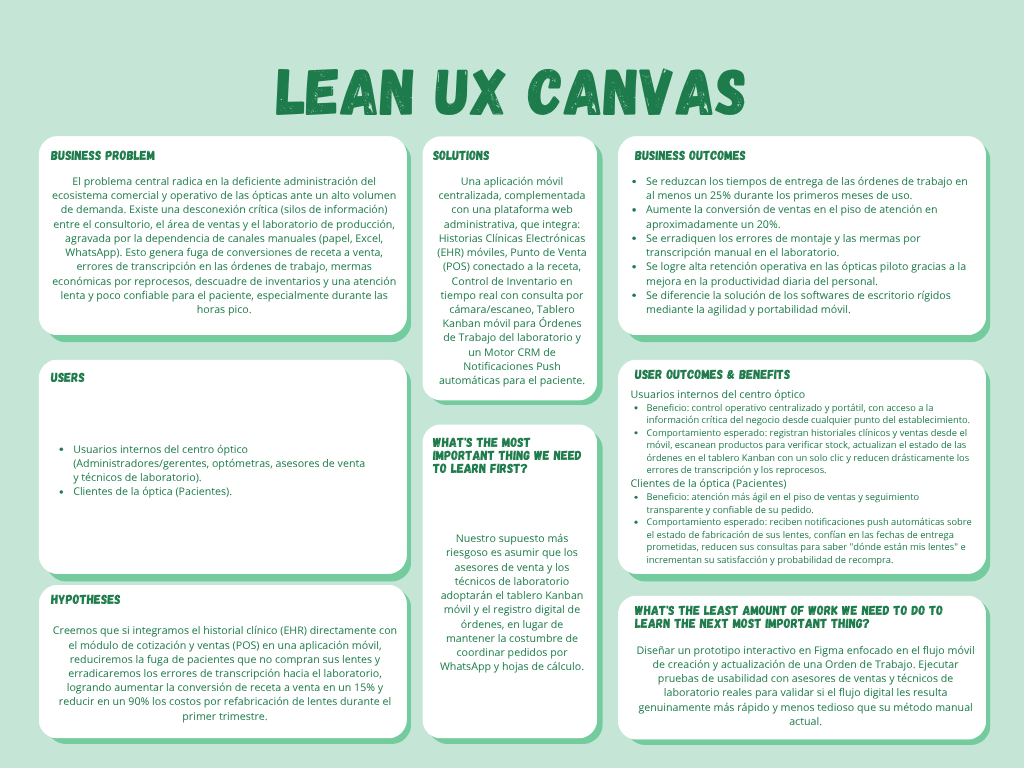
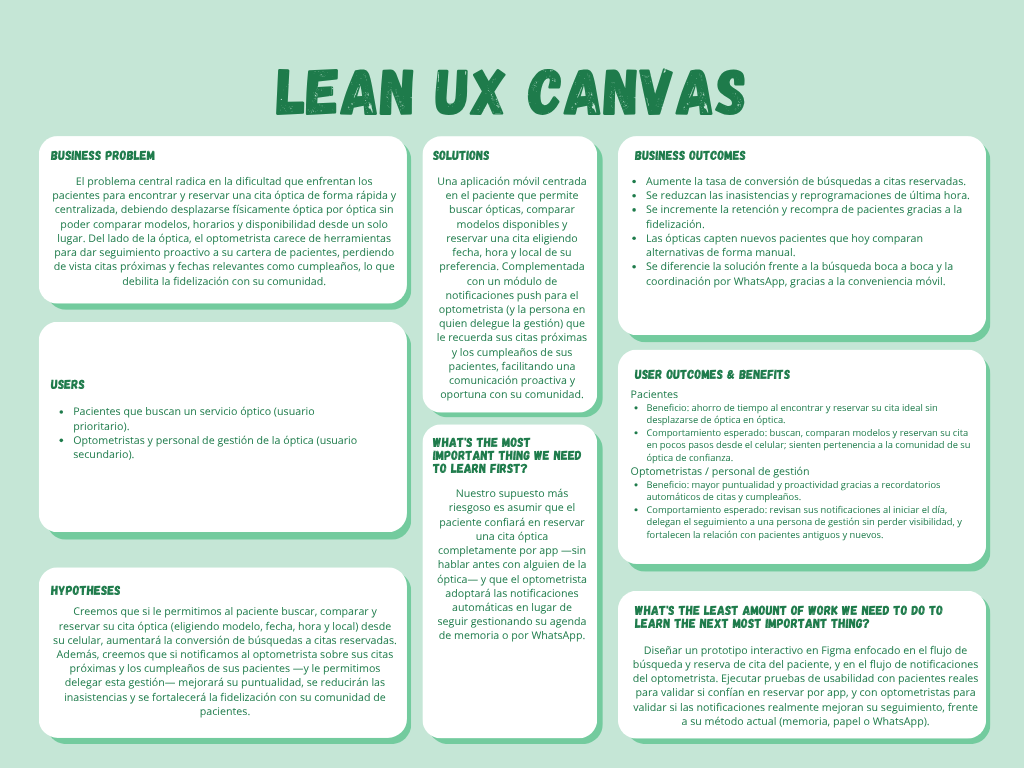
docs: Lean UX Canvas updated

diff --git a/Capitulo1.md b/Capitulo1.md
@@ -68,123 +68,115 @@ OptiFlow fue diseñado para permitir que el paciente pueda buscar, comparar y re
 
 **¿Quién es el usuario?**
 > Nuestro usuario principal y prioritario es el paciente que busca un servicio óptico. De forma secundaria, atendemos a la óptica: el optometrista y, en caso de delegación, la persona encargada de la gestión.
-> - El administrador utilizará la aplicación móvil para auditar embudos de ventas, inventario y flujo de caja desde cualquier ubicación.
-> - El staff la usará desde sus smartphones o tablets para registrar historias clínicas, cotizar escaneando productos, cobrar adelantos y enviar/monitorear órdenes de trabajo al laboratorio.
-> - El paciente interactúa indirectamente al recibir notificaciones push automatizadas del estado de su pedido en su celular.
+> - El paciente utilizará la aplicación móvil para buscar ópticas, comparar modelos y reservar su cita en el lugar, fecha y hora que prefiera.
+> - El optometrista recibirá notificaciones sobre sus citas próximas y sobre fechas relevantes de sus pacientes, como cumpleaños.
 
 **¿Dónde encaja nuestro producto en su trabajo o vida?**
-> Será el core operativo y la espina dorsal del negocio. Estará abierto constantemente en smartphones o tablets desde la apertura hasta el cierre, reemplazando:
-> - Historias y recetas en papel.
-> - Hojas de Excel aisladas en computadoras de escritorio.
-> - Chats de WhatsApp para la comunicación informal con los laboratorios.
+> Para el paciente, será el primer punto de contacto al momento de necesitar un servicio óptico, reemplazando la búsqueda física de óptica en óptica o las llamadas telefónicas dispersas. Para el optometrista, será una extensión de su agenda diaria en el celular, presente desde que se despierta (recordatorio de la primera cita del día) hasta el cierre de operaciones, reemplazando:
+> - La búsqueda manual y presencial de disponibilidad en ópticas.
+> - Las agendas en papel o los recordatorios informales de citas y cumpleaños.
+> - La coordinación telefónica entre el optometrista y la persona de gestión.
 
 **¿Qué problemas tiene nuestro producto que resolver?**
-> La latencia y fragmentación de datos ante el alto volumen de atención. Específicamente:
-> 
-> - La fuga de conversiones (recetas emitidas que no terminan en ventas por falta de agilidad en el piso de ventas).
-> - Los errores de montaje y mermas económicas por la transcripción manual de órdenes al laboratorio.
-> - El descuadre de inventario de monturas entre piso de ventas y almacén.
-> - La insatisfacción del cliente por retrasos y falta de comunicación proactiva sobre sus lentes.
+> La fricción del paciente al buscar y reservar una cita óptica, y la falta de proactividad del optometrista en el seguimiento de su cartera de pacientes. Específicamente:
+> - La pérdida de tiempo del paciente al desplazarse óptica por óptica para conocer disponibilidad y modelos.
+> - La dificultad del paciente para elegir, en un solo lugar, el modelo, la fecha, la hora y el local de su preferencia.
+> - El olvido de citas próximas y de fechas relevantes (cumpleaños) por parte del optometrista.
+> - La falta de un canal claro para delegar el seguimiento de pacientes a otra persona sin perder visibilidad.
 
 **¿Cuándo y cómo es usado nuestro producto?**
-> De forma concurrente durante toda la jornada comercial, intensificando su uso durante las horas pico.
-> - Los vendedores operarán el módulo de venta ágil desde su celular acompañando al cliente por todo el salón.
-> - Los doctores utilizarán el módulo EHR portátil en una tablet dentro de la cabina.
-> - Los técnicos de laboratorio usarán el tablero Kanban táctil para actualizar estados rápidamente.
-> - Los administradores lo usarán para cortes de caja diarios y análisis de KPIs en tiempo real desde sus teléfonos.
+> El paciente lo usará de forma puntual, cada vez que necesite agendar o renovar un servicio óptico, desde cualquier lugar y en el momento que le resulte conveniente. El optometrista (o la persona de gestión) lo usará de forma continua durante la jornada, principalmente:
+> - Al inicio del día, para revisar las citas y recordatorios pendientes.
+> - Durante la jornada, al recibir notificaciones en tiempo real sobre citas próximas o cumpleaños de pacientes.
+> - Al delegar tareas de seguimiento, manteniendo visibilidad compartida con la persona encargada de la gestión.
 
 **¿Qué características son importantes?**
-> - Historias clínicas electrónicas (EHR) vinculadas directamente al módulo de ventas móvil para auto-completar cotizaciones.
-> - Control de inventario sincronizado en tiempo real mediante el uso de la cámara del celular como escáner.
-> - Tablero Kanban optimizado para pantallas táctiles, permitiendo la trazabilidad visual de las Órdenes de Trabajo (Work Orders).
-> - Motor CRM para notificaciones push automatizadas al dispositivo del paciente.
+> - Buscador de ópticas con catálogo de modelos disponibles.
+> - Reserva de citas eligiendo modelo, fecha, hora y local, desde el celular.
+> - Notificaciones push al optometrista sobre citas próximas y cumpleaños de pacientes.
+> - Delegación de la gestión de notificaciones a una persona designada, sin perder visibilidad.
 
 **¿Cómo debe verse nuestro producto y cómo debe comportarse?**
-> Debe ser comercial, impecable y con un diseño de interfaz nativo (Mobile UI) que reduzca la carga cognitiva en horas de alta demanda.
-> 
-> - El flujo de cotización debe ser rápido y operable a una sola mano para evitar filas.
-> - El tablero del laboratorio debe ser visualmente jerarquizado (semaforización de estados).
-> - Debe permitir actualizaciones de estado con un solo tap (toque).
+> Debe ser simple, cercano y confiable, priorizando la facilidad de uso del paciente y la inmediatez de las notificaciones para el optometrista.
+> - El flujo de búsqueda y reserva de cita debe completarse en pocos pasos, sin fricciones, y ser operable a una sola mano.
+> - Las notificaciones deben ser claras, oportunas y accionables (por ejemplo, permitir confirmar, reprogramar o delegar una cita con un solo tap).
 
 ---
 
 **Business Assumptions**
 
-> Creo que mis clientes necesitan un ecosistema móvil que:
-> - Soporte el escalamiento de sus atenciones sin depender de módulos fijos de PC.
-> - Elimine el desorden administrativo por sobrecarga de datos.
-> - Erradique las mermas por errores de pedidos manuales.
-> - Permita control financiero total desde la palma de la mano.
+> Creo que mis clientes necesitan una herramienta móvil que:
+> - Les permita captar pacientes que hoy buscan alternativas óptica por óptica.
+> - Fortalezca la fidelidad de su comunidad de pacientes mediante comunicación oportuna.
+> - Reduzca las inasistencias y el desorden en el seguimiento de citas y fechas relevantes.
+> - Permita delegar la gestión de la comunicación sin perder control ni visibilidad.
 
 > Estas necesidades se pueden resolver con:
-> 
-> La implementación de nuestra aplicación móvil ERP/CRM que automatiza el viaje de la información, conectando sin fricción la receta del doctor en cabina, la venta en movimiento en el mostrador y la fabricación en el laboratorio.
+> La implementación de nuestra aplicación móvil, que conecta al paciente con la óptica desde el momento de la búsqueda y reserva de la cita, y sostiene esa relación en el tiempo mediante notificaciones automáticas de citas y fechas relevantes al optometrista o a quien delegue esta tarea.
 
 **Clientes iniciales:**
-> Cadenas de ópticas medianas y grandes en Lima Metropolitana que:
-> - Procesan altos volúmenes de órdenes diarias.
-> - Sufren de cuellos de botella por dependencia al papel, métodos empíricos o sistemas de escritorio obsoletos.
+> Ópticas independientes y cadenas medianas en Lima Metropolitana que:
+> - Buscan atraer nuevos pacientes que hoy comparan alternativas de forma manual.
+> - Desean fidelizar a su cartera de pacientes existente mediante una comunicación más cercana y oportuna.
 
 **Propuesta de valor**
-> **Para el gerente:**
-> - Aumentar la rentabilidad neta.
-> - Mejorar la conversión de ventas mediante atención portátil.
-> - Reducir a cero errores de transcripción.
-> - Mantener control exacto de cuentas por cobrar en tiempo real.
-> 
 > **Para el paciente:**
-> - Recibir sus lentes con medida exacta.
-> - Cumplimiento de fechas prometidas.
-> - Información constante del proceso en su propio teléfono.
+> - Encontrar y reservar su cita óptica ideal sin desplazarse físicamente de óptica en óptica.
+> - Elegir el modelo, la fecha, la hora y el local de su preferencia, todo desde el celular.
+> - Sentirse parte de una comunidad fiel a su óptica de confianza.
+> 
+> **Para el optometrista / la óptica:**
+> - Ser más puntual y proactivo gracias a notificaciones automáticas de citas y cumpleaños.
+> - Fortalecer la fidelización de pacientes antiguos y nuevos.
+> - Delegar el seguimiento de la agenda en una persona de gestión sin perder visibilidad.
 
 **Beneficios adicionales:**
-> **Administrativos:**
-> - Auditoría de eficiencia y conversión por empleado.
-> - Digitalización y eliminación de archivos físicos.
-> - Proyección de demanda de inventario.
+> **Óptica:**
+> - Mayor captación de pacientes nuevos que buscan reservar sin desplazarse.
+> - Menor dependencia de la memoria o de canales informales para el seguimiento de citas.
+> - Mejor clima de comunicación entre el optometrista y la persona de gestión.
 > 
-> **Personal operativo:**
-> - Reducción de estrés.
-> - Menos dependencia de WhatsApp personal.
-> - Mejora del clima laboral.
-> - Mejor trato al paciente al no darle la espalda para usar una PC.
+> **Paciente:**
+> - Ahorro de tiempo al comparar y reservar en un solo lugar.
+> - Sensación de cercanía y pertenencia a la comunidad de la óptica.
 
 **Estrategia de adquisición de clientes**
-> - Ventas directas B2B.
+> - Ventas directas B2B a ópticas independientes y cadenas medianas.
 > - Demostraciones en vivo de la aplicación en el propio establecimiento.
 > - Programas piloto gratuitos limitados en sucursales.
+> - Del lado del paciente: presencia en tiendas de aplicaciones y recomendación boca a boca dentro de la comunidad de cada óptica.
 
 **Modelo de ingresos**
-> Modelo B2B tipo SaaS (Software as a Service) móvil:
-> 
+> Modelo B2B tipo SaaS (Software as a Service) móvil, cobrado a las ópticas:
 > - Suscripciones mensuales o anuales.
 > - Escaladas según:
 >   - Número de sucursales conectadas.
->   - Cantidad de dispositivos/usuarios activos.
->   - Volumen de transacciones.
+>   - Cantidad de citas o notificaciones gestionadas.
+>   - Cantidad de dispositivos/usuarios activos (optometrista + persona de gestión).
 
 **Competencia**
-> - Sistemas POS genéricos de escritorio sin soporte optométrico.
-> - Uso combinado de Excel + WhatsApp.
+> - Búsqueda manual boca a boca o desplazamiento físico óptica por óptica.
+> - Coordinación de citas vía llamadas telefónicas o WhatsApp.
+> - Apps genéricas de reserva de citas sin especialización en el sector óptico.
 
 **Ventaja competitiva**
 > Proponemos una solución verticalizada y 100% móvil que:
 > 
-> - Integra la complejidad clínica (receta médica).
-> - Conecta la venta retail (montura) en cualquier punto de la tienda.
-> - Gestiona la logística de producción (laboratorio).
+> - Centraliza la búsqueda, comparación y reserva de citas ópticas para el paciente.
+> - Fortalece la fidelización mediante notificaciones inteligentes al optometrista.
+> - Permite delegar el seguimiento de la agenda sin perder control ni visibilidad.
 > 
-> Todo en un solo ecosistema de bolsillo.
+> Todo en un solo ecosistema de bolsillo, pensado primero para el paciente.
 
 **Riesgos principales**
-> - Resistencia al cambio del personal acostumbrado al papel.
-> - Dependencia de laboratorios externos.
-> - Preferencia por seguir usando WhatsApp por costumbre.
+> - Baja adopción inicial del paciente si no conoce o no confía en la app.
+> - Resistencia al cambio del personal acostumbrado a la agenda en papel o WhatsApp.
+> - Dependencia de que las ópticas mantengan actualizada su disponibilidad y catálogo de modelos.
 
 **Mitigación**
-> - Diseño Mobile UX/UI altamente intuitivo (curva de aprendizaje casi nula).
-> - Autocompletado desde recetas para acelerar ventas (menos tipeo en pantallas pequeñas).
-> - Interfaces táctiles simplificadas con botones grandes para laboratorios.
+> - Diseño Mobile UX/UI altamente intuitivo para el paciente (curva de aprendizaje casi nula).
+> - Onboarding simple y programas piloto/promocionales para incentivar la primera reserva.
+> - Interfaces simplificadas y notificaciones claras para el optometrista y la persona de gestión.
 
 **Suposiciones tecnológicas**
 > Se asume que las ópticas cuentan con:
@@ -204,28 +196,28 @@ OptiFlow fue diseñado para permitir que el paciente pueda buscar, comparar y re
 
 ##### Hipótesis 1
 **Hipótesis:**  
-Creemos que si integramos el historial clínico (EHR) directamente con el módulo de cotización y ventas (POS), se reducirá la fuga de pacientes que no compran sus lentes.
+Creemos que si le permitimos al paciente buscar, comparar y reservar una cita óptica (eligiendo modelo, fecha, hora y local) directamente desde su celular, aumentará la proporción de búsquedas que terminan en una cita efectivamente reservada.
 
 **Métrica:**  
-Sabremos que funcionó cuando la tasa de conversión (recetas emitidas vs. ventas concretadas) aumente en un **15%** en el primer trimestre.
+Sabremos que funcionó cuando la tasa de conversión de búsquedas a citas reservadas aumente en un 15% en el primer trimestre. (pendiente de validar con datos de campo del equipo)
 
 ---
 
 ##### Hipótesis 2
 **Hipótesis:**  
-Creemos que si proporcionamos un tablero Kanban de Órdenes de Trabajo para el laboratorio, conectado a la base de datos central, se erradicarán los errores por transcripción manual.
+Creemos que si notificamos al optometrista sobre sus citas próximas y los cumpleaños de sus pacientes, mejorará su puntualidad y proactividad en el seguimiento de su cartera.
 
 **Métrica:**  
-Sabremos que esto funcionó cuando los reportes demuestren una disminución del **90%** en los costos asumidos por refabricación de lentes (mermas) en los primeros tres meses.
+Sabremos que esto funcionó cuando las inasistencias o reprogramaciones de última hora disminuyan en un 80% en los primeros tres meses.
 
 ---
 
 ##### Hipótesis 3
-**Hipótesis:**  
-Creemos que automatizar el envío de notificaciones (Email/SMS) sobre el estado del pedido reducirá la carga de atención al cliente y mejorará la percepción del servicio.
+**Hipótesis:**
+Creemos que si permitimos al optometrista delegar la gestión de notificaciones en una persona encargada, se reducirá la carga de seguimiento manual y mejorará la comunicación con el paciente.
 
-**Métrica:**  
-Sabremos que funcionó cuando las llamadas o mensajes de pacientes consultando *"¿dónde están mis lentes?"* se reduzcan en un **80%**.
+**Métrica:**
+Sabremos que funcionó cuando el tiempo de respuesta a solicitudes o dudas de pacientes se reduzca en un 80% en los primeros tres meses.
 
 #### 1.2.2.4. Lean UX Canvas
 
